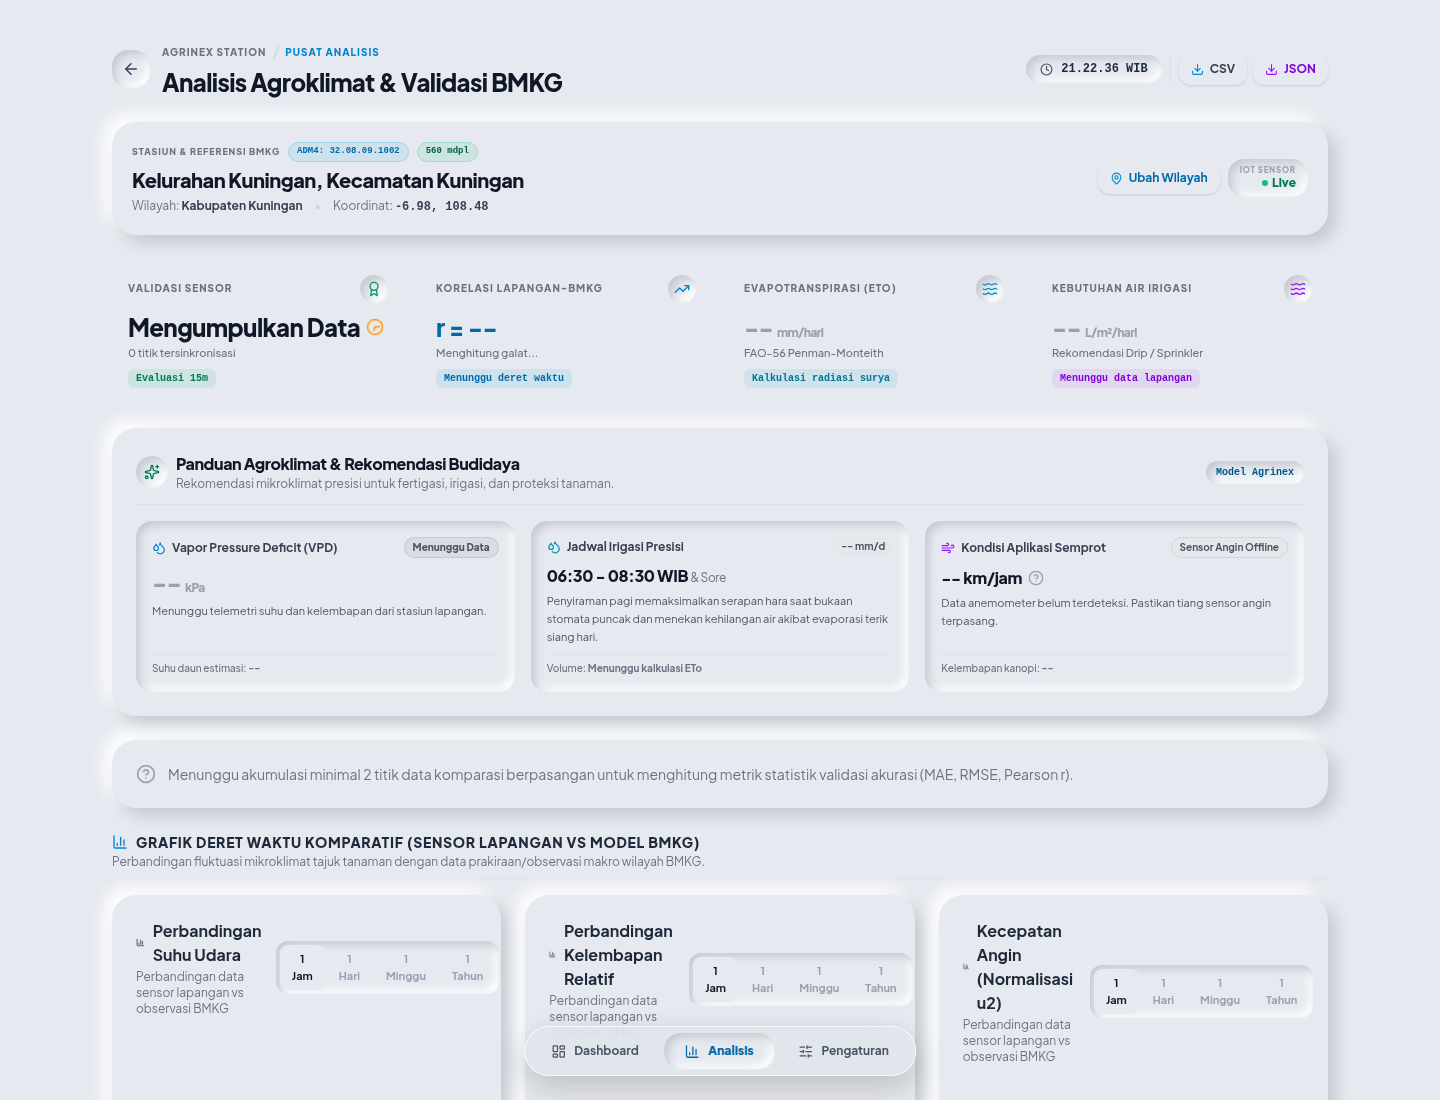
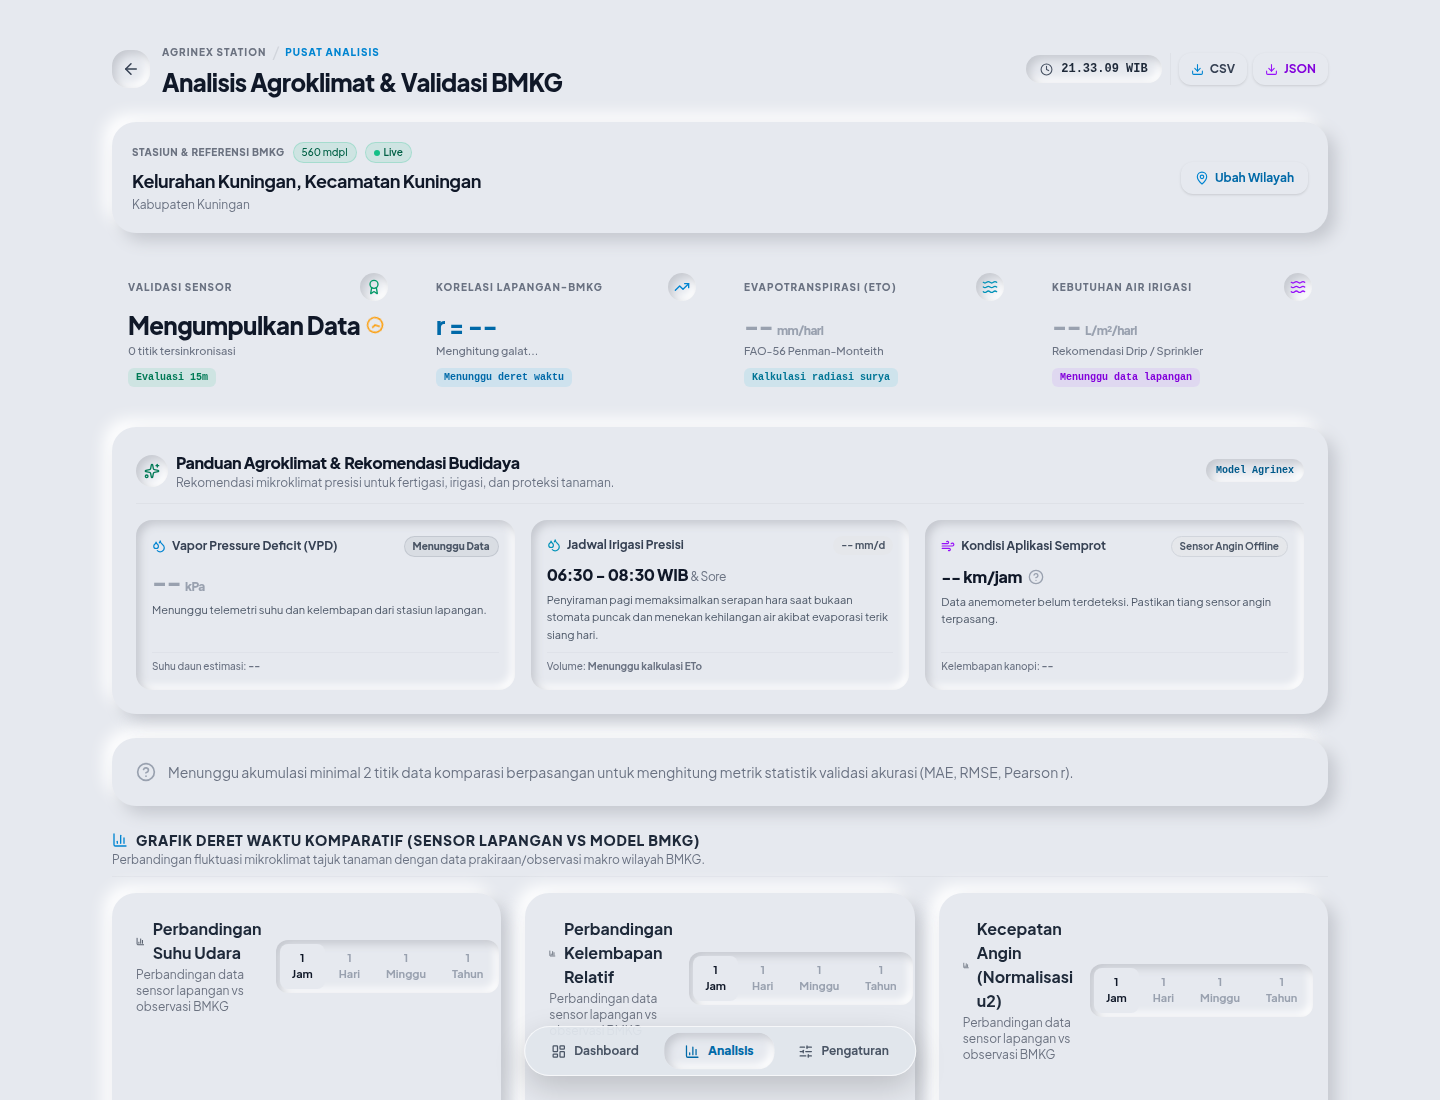
style: streamline station reference card for a clean and minimal UI without text clutter

diff --git a/web/src/presentation/views/Dashboard.tsx b/web/src/presentation/views/Dashboard.tsx
@@ -331,51 +331,34 @@ export function Dashboard({ onNavigateToSettings, onNavigateToAnalytics, onLogsL
       </header>
 
       {/* Location Bar */}
+      {/* Station Location Banner */}
       <section className="animate-fade-in" style={{ animationDelay: '0.08s' }}>
         <div className="neo-card p-4 sm:p-5 flex flex-col sm:flex-row sm:items-center justify-between gap-3 sm:gap-4">
-          <div>
-            <div className="flex items-center gap-1.5 sm:gap-2 flex-wrap">
-              <span className="text-[9px] uppercase tracking-widest font-extrabold text-[var(--color-neo-text-muted)]">
-                STASIUN &amp; REFERENSI BMKG
+          <div className="min-w-0">
+            <div className="flex items-center gap-2">
+              <span className="text-[10px] uppercase tracking-wider font-extrabold text-[var(--color-neo-text-muted)]">
+                Stasiun &amp; Referensi BMKG
               </span>
-              <span className="text-[9px] font-mono px-2 py-0.5 rounded-full bg-sky-500/10 text-sky-700 border border-sky-500/20 font-bold">
-                ADM4: {activeLocation.adm4}
-              </span>
-              <span className="text-[9px] font-mono px-2 py-0.5 rounded-full bg-emerald-500/10 text-emerald-800 border border-emerald-500/20 font-bold">
+              <span className="text-[10px] font-semibold px-2 py-0.5 rounded-full bg-emerald-500/10 text-emerald-800 border border-emerald-500/20">
                 {activeLocation.elevation_m} mdpl
               </span>
             </div>
-            <h2 className="text-sm sm:text-xl font-extrabold text-gray-900 tracking-tight mt-1">
+            <h2 className="text-base sm:text-lg font-bold text-gray-900 tracking-tight mt-1">
               {activeLocation.village}, {activeLocation.subdistrict}
             </h2>
-            <div className="flex flex-wrap items-center gap-x-3 gap-y-1 text-xs text-gray-500 mt-1">
-              <span>Wilayah: <strong className="text-gray-700">{activeLocation.district}</strong></span>
-              <span className="hidden sm:inline text-gray-300">•</span>
-              <span>Mikrokontroler: <strong className="text-gray-700">ESP32 (ESP-WROOM-32)</strong></span>
-              <span className="hidden sm:inline text-gray-300">•</span>
-              <span>Power: <strong className="text-gray-700">INA226 (LiFePO4 30Ah)</strong></span>
-            </div>
+            <p className="text-xs text-gray-500 mt-0.5">
+              {activeLocation.district}
+            </p>
           </div>
 
-          <div className="flex items-center gap-2 self-start sm:self-auto shrink-0">
-            <button
-              onClick={() => setIsLocModalOpen(true)}
-              className="px-3 py-2 rounded-xl neo-flat hover:neo-pressed text-xs font-bold text-sky-700 flex items-center gap-1.5 cursor-pointer transition active:scale-95 shadow-sm"
-              title="Ubah Referensi Wilayah BMKG"
-            >
-              <MapPin size={13} className="text-sky-600" />
-              <span>Ubah Wilayah</span>
-            </button>
-            <div className="px-3 py-1.5 rounded-xl neo-pressed text-gray-700 flex flex-col justify-center text-right shrink-0">
-              <span className="text-[8px] uppercase tracking-widest font-extrabold text-[var(--color-neo-text-muted)]">BMKG REF</span>
-              <span className="text-xs font-extrabold text-gray-800 truncate max-w-[130px] sm:max-w-[180px]">
-                {activeLocation.district}
-              </span>
-              <span className="text-[9px] font-mono text-gray-500 font-bold">
-                {activeLocation.latitude.toFixed(2)}, {activeLocation.longitude.toFixed(2)}
-              </span>
-            </div>
-          </div>
+          <button
+            onClick={() => setIsLocModalOpen(true)}
+            className="self-start sm:self-center px-3.5 py-2 rounded-xl neo-flat hover:neo-pressed text-xs font-bold text-sky-700 flex items-center gap-1.5 cursor-pointer transition active:scale-95 shrink-0 shadow-sm"
+            title="Ubah Referensi Wilayah BMKG"
+          >
+            <MapPin size={14} className="text-sky-600" />
+            <span>Ubah Wilayah</span>
+          </button>
         </div>
       </section>
 

diff --git a/web/src/presentation/views/AnalyticsView.tsx b/web/src/presentation/views/AnalyticsView.tsx
@@ -271,45 +271,35 @@ export const AnalyticsView: React.FC<AnalyticsViewProps> = ({
 
       {/* Location & Station Metadata Banner */}
       <section className="neo-card p-4 sm:p-5 flex flex-col sm:flex-row sm:items-center justify-between gap-3 sm:gap-4">
-        <div>
-          <div className="flex items-center gap-1.5 sm:gap-2 flex-wrap">
-            <span className="text-[9px] uppercase tracking-widest font-extrabold text-[var(--color-neo-text-muted)]">
-              STASIUN &amp; REFERENSI BMKG
+        <div className="min-w-0">
+          <div className="flex items-center gap-2 flex-wrap">
+            <span className="text-[10px] uppercase tracking-wider font-extrabold text-[var(--color-neo-text-muted)]">
+              Stasiun &amp; Referensi BMKG
             </span>
-            <span className="text-[9px] font-mono px-2 py-0.5 rounded-full bg-sky-500/10 text-sky-700 border border-sky-500/20 font-bold">
-              ADM4: {location.adm4}
-            </span>
-            <span className="text-[9px] font-mono px-2 py-0.5 rounded-full bg-emerald-500/10 text-emerald-800 border border-emerald-500/20 font-bold">
+            <span className="text-[10px] font-semibold px-2 py-0.5 rounded-full bg-emerald-500/10 text-emerald-800 border border-emerald-500/20">
               {location.elevation_m} mdpl
             </span>
-          </div>
-          <h2 className="text-sm sm:text-xl font-extrabold text-gray-900 tracking-tight mt-1">
-            {location.village}, {location.subdistrict}
-          </h2>
-          <div className="flex flex-wrap items-center gap-x-3 gap-y-1 text-xs text-gray-500 mt-1">
-            <span>Wilayah: <strong className="text-gray-700">{location.district}</strong></span>
-            <span className="hidden sm:inline text-gray-300">•</span>
-            <span>Koordinat: <strong className="text-gray-700 font-mono">{location.latitude.toFixed(2)}, {location.longitude.toFixed(2)}</strong></span>
-          </div>
-        </div>
-
-        <div className="flex items-center gap-2 self-start sm:self-auto shrink-0">
-          <button
-            onClick={() => setIsLocModalOpen(true)}
-            className="px-3 py-2 rounded-xl neo-flat hover:neo-pressed text-xs font-bold text-sky-700 flex items-center gap-1.5 cursor-pointer transition active:scale-95 shadow-sm"
-            title="Ubah Referensi Wilayah BMKG"
-          >
-            <MapPin size={13} className="text-sky-600" />
-            <span>Ubah Wilayah</span>
-          </button>
-          <div className="px-3 py-1.5 rounded-xl neo-pressed text-right">
-            <span className="text-[8px] uppercase tracking-widest font-extrabold text-gray-400 block leading-tight">IoT Sensor</span>
-            <span className="text-xs font-extrabold text-emerald-700 flex items-center gap-1 justify-end">
-              <span className="w-1.5 h-1.5 rounded-full bg-emerald-500 animate-pulse"></span>
+            <span className="text-[10px] font-semibold px-2 py-0.5 rounded-full bg-emerald-500/10 text-emerald-800 border border-emerald-500/20 flex items-center gap-1">
+              <span className={`w-1.5 h-1.5 rounded-full ${connected ? 'bg-emerald-500 animate-pulse' : 'bg-gray-400'}`}></span>
               {connected ? 'Live' : 'Offline'}
             </span>
           </div>
+          <h2 className="text-base sm:text-lg font-bold text-gray-900 tracking-tight mt-1">
+            {location.village}, {location.subdistrict}
+          </h2>
+          <p className="text-xs text-gray-500 mt-0.5">
+            {location.district}
+          </p>
         </div>
+
+        <button
+          onClick={() => setIsLocModalOpen(true)}
+          className="self-start sm:self-center px-3.5 py-2 rounded-xl neo-flat hover:neo-pressed text-xs font-bold text-sky-700 flex items-center gap-1.5 cursor-pointer transition active:scale-95 shrink-0 shadow-sm"
+          title="Ubah Referensi Wilayah BMKG"
+        >
+          <MapPin size={14} className="text-sky-600" />
+          <span>Ubah Wilayah</span>
+        </button>
       </section>
 
       {/* 1. Analytics KPI Grid (High Level Metrics) */}
